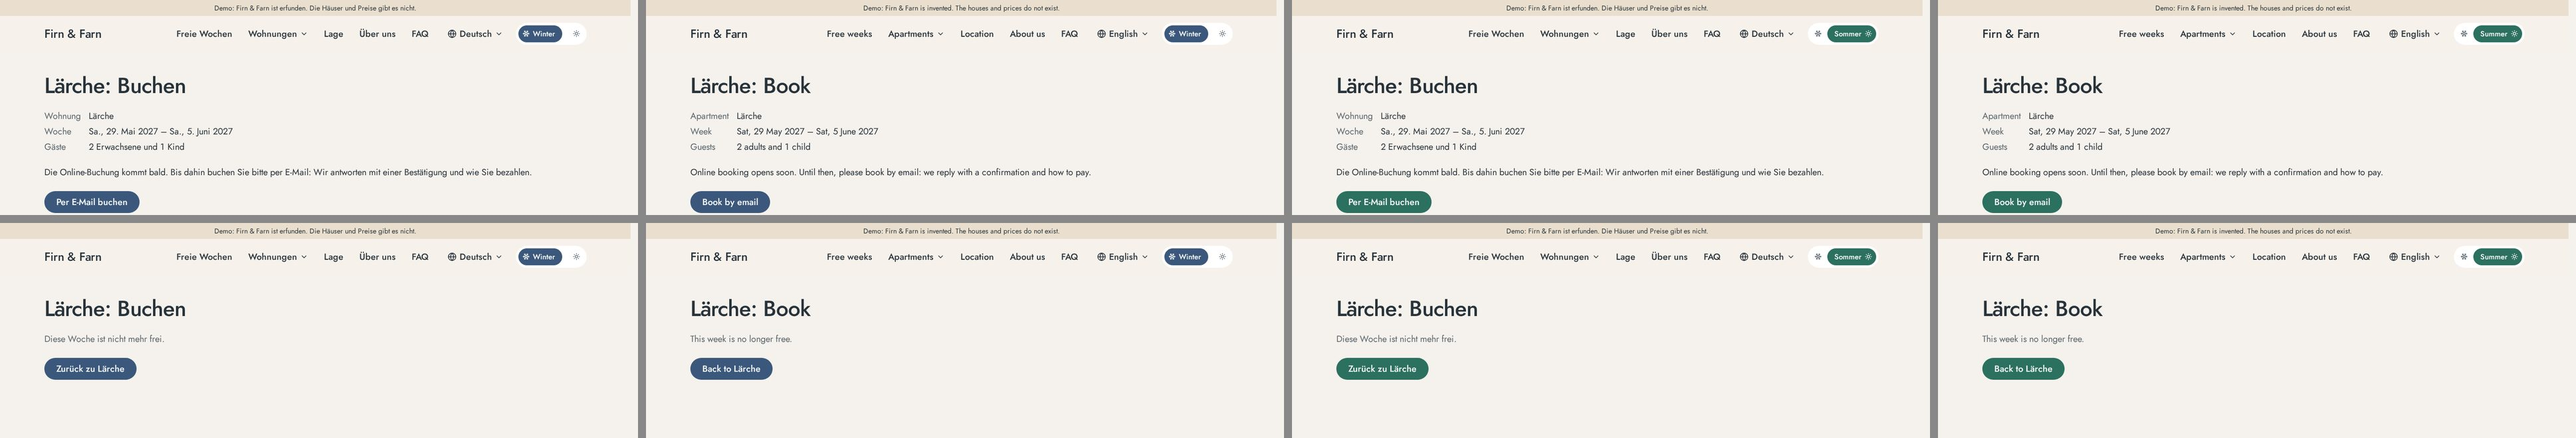
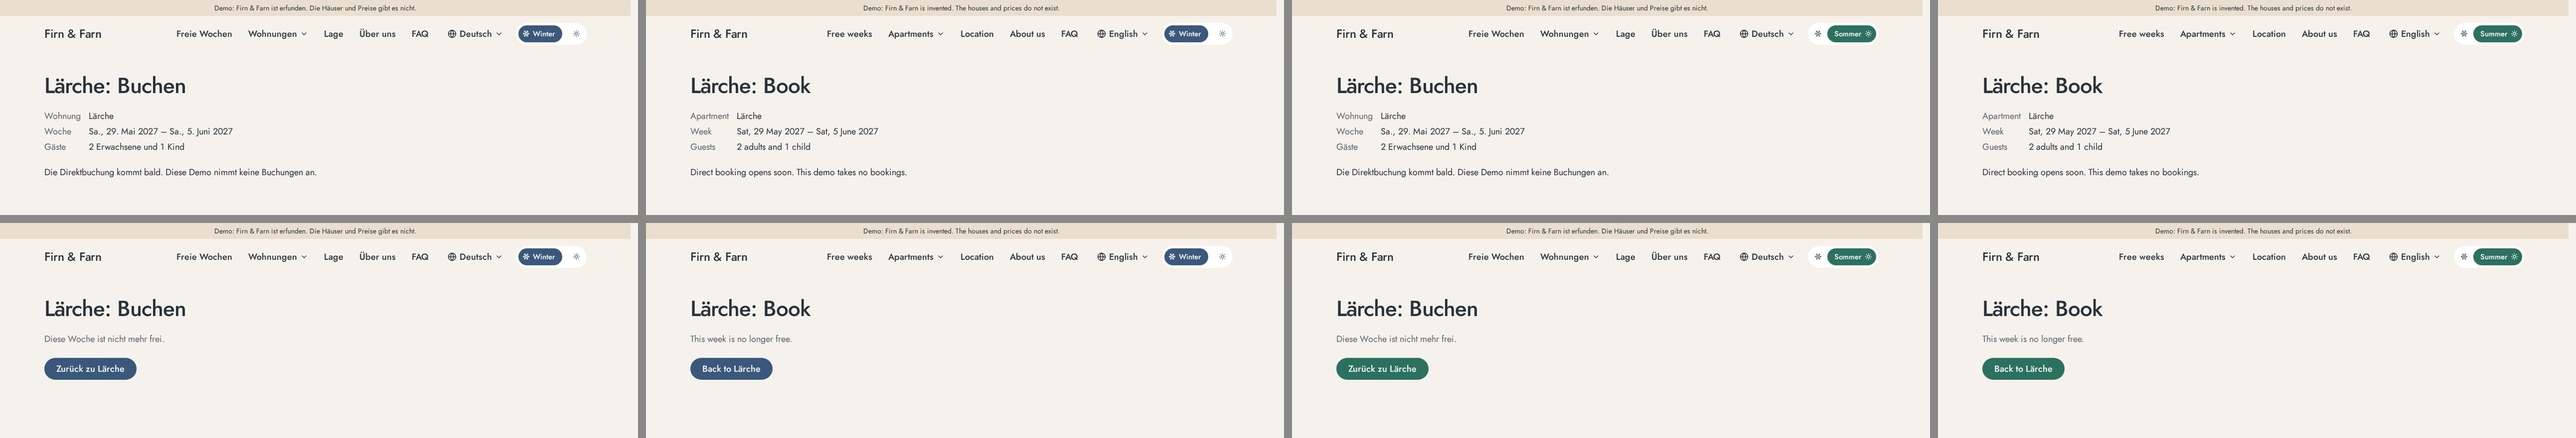
The booking step links where an apartment can be booked meanwhile
An email request would have to be declined until payments work, so the step no longer offers one.
An apartment's file may give `elsewhere`, an https address such as its Booking.com page, in which
the step fills in the stay's dates and guests. Without it the step shows its text alone, as the
demo does: it takes no bookings.

diff --git a/e2e/book.spec.ts b/e2e/book.spec.ts
@@ -2,6 +2,9 @@ import AxeBuilder from '@axe-core/playwright';
 import { expect, test, type Page } from '@playwright/test';
 import { toLanguage } from './header';
 
+const plus = (date: string, days: number) =>
+  new Date(Date.parse(date) + days * 864e5).toISOString().slice(0, 10);
+
 // A free or a booked week of the apartment's later season, as its page offers it.
 async function weekOf(page: Page, path: string, kind: 'free' | 'full') {
   await page.goto(path);
@@ -12,41 +15,17 @@ async function weekOf(page: Page, path: string, kind: 'free' | 'full') {
   return (await cells.first().getAttribute('data-date'))!;
 }
 
-const mailOf = async (page: Page) => {
-  const href = (await page.locator('main a.button').getAttribute('href'))!;
-  const url = new URL(href);
-  return {
-    to: url.pathname,
-    subject: url.searchParams.get('subject'),
-    body: url.searchParams.get('body'),
-    raw: href,
-  };
-};
-
-for (const [lang, path, week, guests, text, mail, subject] of [
+for (const [lang, path, week, guests, text] of [
   [
     'de',
     '/de/wohnungen/laerche',
     'Woche',
     '2 Erwachsene und 1 Kind',
-    'Die Online-Buchung kommt bald.',
-    'Per E-Mail buchen',
-    'Buchungsanfrage: Lärche, ',
+    'Die Direktbuchung kommt bald.',
   ],
-  [
-    'en',
-    '/en/apartments/laerche',
-    'Week',
-    '2 adults and 1 child',
-    'Online booking opens soon.',
-    'Book by email',
-    'Booking request: Lärche, ',
-  ],
+  ['en', '/en/apartments/laerche', 'Week', '2 adults and 1 child', 'Direct booking opens soon.'],
 ] as const)
-  test(`the booking step shows the stay and books it by e-mail (${lang})`, async ({
-    page,
-    browser,
-  }) => {
+  test(`the booking step shows the stay (${lang})`, async ({ page, browser }) => {
     const arrival = await weekOf(page, path, 'free');
     // As the panel's button links it.
     const book = `${path}/${lang === 'de' ? 'buchen' : 'book'}?arrival=${arrival}&adults=2&children=1`;
@@ -65,20 +44,9 @@ for (const [lang, path, week, guests, text, mail, subject] of [
       week,
       lang === 'de' ? 'Gäste' : 'Guests',
     ]);
-    const dates = await page.locator('main dd').nth(1).innerText();
     await expect(page.locator('main')).toContainText(text);
-    const link = page.getByRole('link', { name: mail });
-    const { to, subject: got, body, raw } = await mailOf(page);
-    expect(to).toBe('demo@vikkoch.com');
-    expect(got).toBe(`${subject}${dates}`);
-    expect(body!.replaceAll('\u00a0', ' ')).toContain(guests);
-    expect(body).toContain(dates);
-    // A mail program shows "+" as it is: spaces are written as %20.
-    expect(raw).not.toContain('+');
-    // By keyboard: the link follows the header's.
-    for (let i = 0; i < 30 && !(await link.evaluate((a) => a === document.activeElement)); i++)
-      await page.keyboard.press('Tab');
-    await expect(link).toBeFocused();
+    // The demo's apartments give no other place to book them.
+    await expect(page.locator('main a')).toHaveCount(0);
     expect((await new AxeBuilder({ page }).analyze()).violations).toEqual([]);
 
     // Rendered in the browser: the other language keeps the stay.
@@ -93,6 +61,27 @@ for (const [lang, path, week, guests, text, mail, subject] of [
       lang === 'de' ? '2 adults and 1 child' : '2 Erwachsene und 1 Kind',
     );
   });
+
+test('the booking step links where the apartment can be booked meanwhile, with the stay', async ({
+  page,
+}) => {
+  const path = 'http://localhost:4002/it/appartamenti/vista';
+  const arrival = await weekOf(page, path, 'free');
+  // Vista asks for no children: the site linked counts them as adults.
+  await page.goto(`${path}/prenota?arrival=${arrival}&adults=1&children=1`);
+  await expect(page.locator('html')).toHaveAttribute('data-started', '');
+  const link = page.getByRole('link', { name: 'Prenota questa settimana su Booking.com' });
+  await expect(link).toHaveAttribute(
+    'href',
+    `https://booking.example/vista?checkin=${arrival}&checkout=${plus(arrival, 7)}` +
+      '&group_adults=2&group_children=0&no_rooms=1',
+  );
+  // By keyboard: after the header's links.
+  for (let i = 0; i < 30 && !(await link.evaluate((a) => a === document.activeElement)); i++)
+    await page.keyboard.press('Tab');
+  await expect(link).toBeFocused();
+  expect((await new AxeBuilder({ page }).analyze()).violations).toEqual([]);
+});
 
 for (const [lang, path, invalid, taken, back] of [
   [
@@ -153,7 +142,6 @@ test(
       'Sat, 2 January 2027 – Sat, 9 January 2027',
       '2 adults',
     ]);
-    await expect(page.getByRole('link', { name: 'Book by email' })).toBeVisible();
   },
 );
 

diff --git a/src/app/book.ts b/src/app/book.ts
@@ -8,8 +8,8 @@ import { heading } from './shell';
 import { addDays, address, fill, formatStay, isDay, LANGUAGE, TEXTS } from './texts';
 
 // The booking step until online booking opens: the stay from the address, checked against the
-// apartment's weeks and limits, and an e-mail that asks for it. While Beds24 cannot be reached
-// the stay goes unchecked: the host confirms it in the reply.
+// apartment's weeks and limits, and a link to book it elsewhere, such as on a booking site. While
+// Beds24 cannot be reached the stay goes unchecked: the site linked checks it.
 @Component({
   selector: 'app-book',
   template: `
@@ -30,9 +30,9 @@ import { addDays, address, fill, formatStay, isDay, LANGUAGE, TEXTS } from './te
           <dd>{{ guests }}</dd>
         </dl>
         <p class="mt-6">{{ texts.book.text }}</p>
-        @if (mail) {
+        @if (elsewhere) {
           <p class="mt-6">
-            <a class="button" [href]="mail">{{ texts.book.mail }}</a>
+            <a class="button" [href]="elsewhere">{{ texts.book.link }}</a>
           </p>
         }
       }
@@ -47,7 +47,8 @@ export class Book {
   private readonly route = inject(ActivatedRoute).snapshot;
   protected readonly heading = heading(this.texts, this.route);
   private readonly slug: string = this.route.params['slug'];
-  protected readonly name = site.apartments.find(({ slug }) => slug === this.slug)!.name;
+  private readonly apartment = site.apartments.find(({ slug }) => slug === this.slug)!;
+  protected readonly name = this.apartment.name;
 
   private readonly plural = new Intl.PluralRules(this.language.tag);
   // A count and its noun stay on one line.
@@ -62,20 +63,20 @@ export class Book {
   protected readonly guests: string;
   protected readonly problem: string | null;
   protected readonly back: string;
-  protected readonly mail: string | null;
+  protected readonly elsewhere: string | null;
 
   constructor() {
     const weeks: FreeWeeks | null = this.route.data['weeks'];
     const limits: Listing | null = this.route.data['listing'];
     const [adults, children] = [this.choice.adults(), this.choice.children()];
     // Where the apartment asks for no children, they are guests like the adults.
-    this.guests =
-      limits && !limits.asksChildren
-        ? this.count(this.texts.weeks.guests, adults + children)
-        : new Intl.ListFormat(this.language.tag).format([
-            this.count(this.texts.panel.adults, adults),
-            ...(children ? [this.count(this.texts.book.children, children)] : []),
-          ]);
+    const plain = limits && !limits.asksChildren;
+    this.guests = plain
+      ? this.count(this.texts.weeks.guests, adults + children)
+      : new Intl.ListFormat(this.language.tag).format([
+          this.count(this.texts.panel.adults, adults),
+          ...(children ? [this.count(this.texts.book.children, children)] : []),
+        ]);
     const season = weeks && seasonOf(weeks, this.arrival);
     const valid = weeks ? !!season : isDay(this.arrival);
     const free =
@@ -104,12 +105,15 @@ export class Book {
     // The apartment's panel shows the week chosen, as blocked where it is no longer free.
     const page = address(this.language, 'apartment', this.slug);
     this.back = this.choice.link(`${page}${valid ? `?arrival=${this.arrival}` : ''}#booking`);
-    const email = site.contact?.email;
-    const values = { apartment: this.name, week: this.week, guests: this.guests };
-    // Encoded by hand: URLSearchParams writes a space as "+", which a mail program keeps.
-    this.mail = email
-      ? `mailto:${email}?subject=${encodeURIComponent(fill(this.texts.book.subject, values))}` +
-        `&body=${encodeURIComponent(fill(this.texts.book.body, values))}`
+    // The site linked counts them as adults too.
+    const url = this.apartment.elsewhere;
+    this.elsewhere = url
+      ? fill(url, {
+          arrival: this.arrival,
+          departure: addDays(this.arrival, 7),
+          adults: plain ? adults + children : adults,
+          children: plain ? 0 : children,
+        })
       : null;
   }
 }

diff --git a/src/content/schema.ts b/src/content/schema.ts
@@ -299,6 +299,18 @@ export const apartmentSchema = z.strictObject({
   // Its name on the map left of its pin, for one that would cover a neighbour's.
   mapLabel: z.literal('left').optional(),
   name: text.refine((value) => letters(value) <= 20, 'at most 20 characters'),
+  // Where the apartment can be booked until online booking opens, such as its page on a booking
+  // site: an https address in which the booking step fills in the stay.
+  elsewhere: z
+    .url({ protocol: /^https$/, hostname: z.regexes.domain })
+    .refine(
+      (value) =>
+        [...value.matchAll(/\{(\w*)\}/g)].every(([, key]) =>
+          ['arrival', 'departure', 'adults', 'children'].includes(key),
+        ),
+      'only {arrival}, {departure}, {adults} and {children}',
+    )
+    .optional(),
   pictures: z
     .array(
       z.strictObject({
@@ -495,13 +507,11 @@ export const textsSchema = z.strictObject({
       gestures: z.strictObject({ windows: text, mac: text, touch: text }),
     })
     .optional(),
-  // The booking step until online booking opens: the stay and an e-mail to book it by.
-  // {apartment}, {week}, {guests} and {count} are filled in by the page.
+  // The booking step until online booking opens: the stay, and a link to book it elsewhere where
+  // the apartment's file gives one. {apartment} and {count} are filled in by the page.
   book: z.strictObject({
     text,
-    mail: text,
-    subject: text,
-    body: text,
+    link: text,
     children: z.strictObject({ one: text, other: text }),
     invalid: text,
     taken: text,

diff --git a/docs/content.md b/docs/content.md
@@ -188,7 +188,11 @@ content. The application has no wording, no colour and no typeface of its own. T
   ```
 
   The room ID is the Beds24 room the apartment is, and the name is how the site calls it in every
-  language.
+  language. Until online booking opens, `elsewhere` (optional) is where the apartment can be booked
+  meanwhile, such as its page on a booking site. The booking step links it beside `book.text` with
+  the words of `book.link`, and fills in `{arrival}`, `{departure}`, `{adults}` and `{children}`:
+  `"https://www.booking.com/hotel/at/example.html?checkin={arrival}&checkout={departure}&group_adults={adults}&group_children={children}&no_rooms=1"`.
+  Without it the step shows its text alone.
 
 - **An apartment's pictures** (`pictures` in its file) are listed in the order the site shows them,
   at least one, each a `file` and its alternative text `alt` in each of the site's languages by tag.
@@ -310,9 +314,7 @@ content. The application has no wording, no colour and no typeface of its own. T
   address. The footer shows what is listed, and no contact column without `contact`, so a site can
   keep its footer short and give the full details on its imprint page. A site with a map gives an
   email address of its operator that reaches someone, on its imprint page at least: the map's
-  walking routes come from FOSSGIS's routing servers, whose usage policy asks for one. Until online
-  booking opens, the booking step offers to book by email to the contact's address, with the stay in
-  the mail (`book` in the texts); without an address it shows its text alone.
+  walking routes come from FOSSGIS's routing servers, whose usage policy asks for one.
 - **The map** (`map` in `site.json`) is optional. Its `box` is the area the map covers, as
   `{ "west": 12.6, "south": 47.375, "east": 12.67, "north": 47.405 }` in degrees, and its `places`
   are what it marks, in their order:
